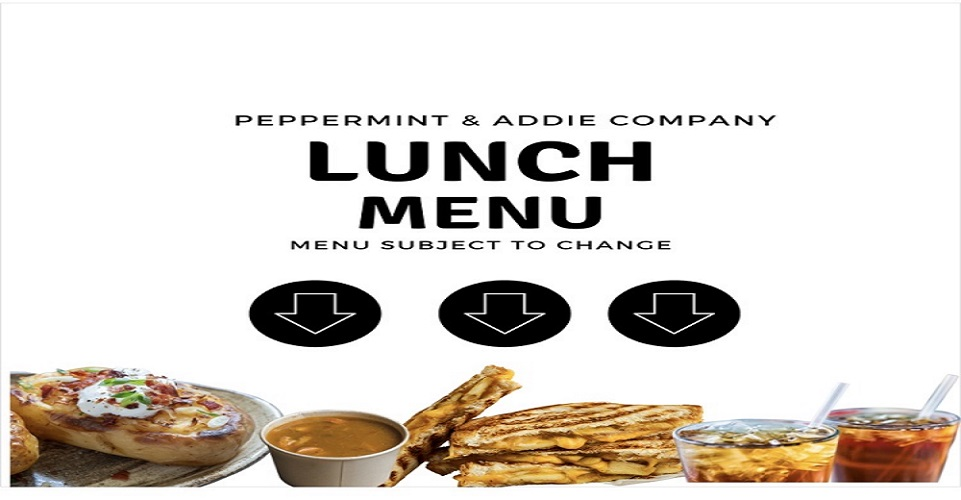
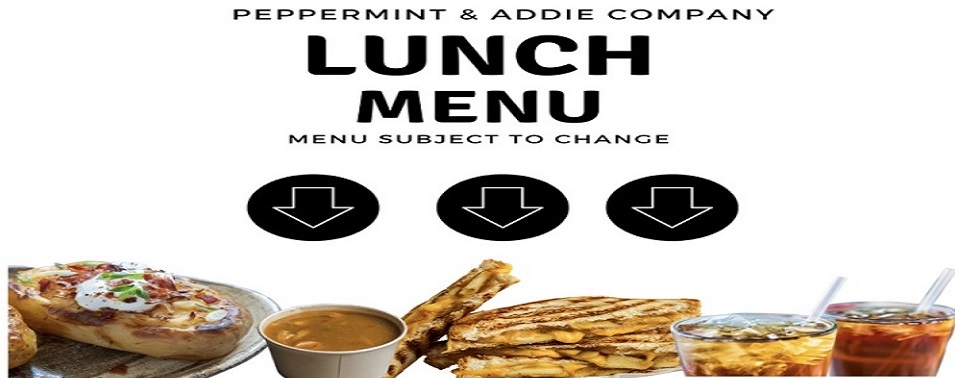
yep

Changed region(s): [[0.0, 0.2328, 1.0, 1.0], [0.3037, 0.0873, 0.6984, 0.2037], [0.2429, 0.0, 0.8199, 0.0582]]

diff --git a/meals.html b/meals.html
@@ -13,172 +13,187 @@
 <link rel="stylesheet" href="style.css">
     <title>PeppermintAddie&Co</title>
   </head>
-  <nav class="navbar navbar-light bg-light">
-    <div class="container-fluid">
-    </div>
-  </nav>
-  <nav class="navbar navbar-expand-lg navbar-light bg-light">
-    <div class="container-fluid">
-        <a class="navbar-brand" href="#">
-            <img src="pictures/logo.png" alt="" width="60" height="65" class="d-inline-block align-text-top">
-          </a>      <button class="navbar-toggler" type="button" data-bs-toggle="collapse" data-bs-target="#navbarNavDropdown" aria-controls="navbarNavDropdown" aria-expanded="false" aria-label="Toggle navigation">
-        <span class="navbar-toggler-icon"></span>
-      </button>
-      <div class="collapse navbar-collapse" id="navbarNavDropdown">
-        <ul class="navbar-nav">
-          <li class="nav-item">
-            <a class="nav-link" aria-current="page" href="index.html">Home</a>
-          </li>
-          <li class="nav-item">
-            <a class="nav-link" href="icecream.html">Ice Cream</a>
-          </li>
-          <li class="nav-item">
-            <a class="nav-link active" href="meals.html">Meals</a>
-          </li>
-          <li class="nav-item">
-            <a class="nav-link" href="about.html">About Us</a>
-          </li>
-          <li class="nav-item">
-            <a class="nav-link" href="contact.html">Contacts Us</a>
-          </li>
-        </ul>
-      </div>
-    </div>
-  </nav>
   <body>
-    <div id="carouselExampleControls" class="carousel slide" data-bs-ride="carousel">
-      <div class="carousel-inner">
-        <div class="carousel-item active">
-          <img src="pictures/meals.png" class="d-block w-100" alt="...">
-        </div>
-        <div class="carousel-item">
-          <img src="pictures/icecream menu.png" class="d-block w-100" alt="...">
-        </div>
-        <div class="carousel-item">
-          <img src="pictures/lunch menu.png" class="d-block w-100" alt="...">
+    <nav class="navbar navbar-light bg-light">
+      <div class="container-fluid">
+      </div>
+    </nav>
+    <nav class="navbar navbar-expand-lg navbar-light bg-light">
+      <div class="container-fluid">
+          <a class="navbar-brand" href="#">
+              <img src="pictures/logo.png" alt="" width="60" height="65" class="d-inline-block align-text-top">
+            </a>      <button class="navbar-toggler" type="button" data-bs-toggle="collapse" data-bs-target="#navbarNavDropdown" aria-controls="navbarNavDropdown" aria-expanded="false" aria-label="Toggle navigation">
+          <span class="navbar-toggler-icon"></span>
+        </button>
+        <div class="collapse navbar-collapse" id="navbarNavDropdown">
+          <ul class="navbar-nav">
+            <li class="nav-item">
+              <a class="nav-link" aria-current="page" href="index.html">Home</a>
+            </li>
+            <li class="nav-item">
+              <a class="nav-link" href="icecream.html">Ice Cream</a>
+            </li>
+            <li class="nav-item">
+              <a class="nav-link active" href="meals.html">Meals</a>
+            </li>
+            <li class="nav-item">
+              <a class="nav-link" href="about.html">About Us</a>
+            </li>
+            <li class="nav-item">
+              <a class="nav-link" href="contact.html">Contacts Us</a>
+            </li>
+          </ul>
         </div>
       </div>
-      <button class="carousel-control-prev" type="button" data-bs-target="#carouselExampleControls" data-bs-slide="prev">
-        <span class="carousel-control-prev-icon" aria-hidden="true"></span>
-        <span class="visually-hidden">Previous</span>
-      </button>
-      <button class="carousel-control-next" type="button" data-bs-target="#carouselExampleControls" data-bs-slide="next">
-        <span class="carousel-control-next-icon" aria-hidden="true"></span>
-        <span class="visually-hidden">Next</span>
-      </button>
-    </div>
-    <h2>Our Meals</h2>
-    <div class="container yes">
-      <div class="row">
-        <div class="col-md-6 food">
-          <h3>Breakfast</h3>
-          <h4>
-          <ul class="breakfast">
-            <li>Bacon, egg, & cheese... 4.00</li>
-            <li class="yes">Sausage, egg, & cheese... 4.00</li>
-            <li class="yes">Cereal Bowl... 2.00</li>
-            <li class="yes">Mini Doughnuts(6)... 3.00</li>
-            <li class="yes">Black Coffee... 2.00</li>
-          </ul>
-          </h4>
-          <h3 class="ok">Floats</h3>
-          <h4>
-          <ul class="breakfast">
-            <li>Root Beer Float</li>
-            <li></li>
-            <li></li>
-          </ul>
-          </h4>
+    </nav>
+      <div id="carouselExampleControls" class="carousel slide" data-bs-ride="carousel">
+        <div class="carousel-inner">
+          <div class="carousel-item active">
+            <img src="pictures/meals.png" class="d-block w-100" alt="...">
+          </div>
+          <div class="carousel-item">
+            <img src="pictures/icecream menu.png" class="d-block w-100" alt="...">
+          </div>
+          <div class="carousel-item">
+            <img src="pictures/lunch menu.png" class="d-block w-100" alt="...">
+          </div>
         </div>
-        <div class="col-md-6 food">
-          <h3>Lunch</h3>
-          <h4>
-            <ul class="lunch">
-              Classic Grilled Cheese... 3.00 
+        <button class="carousel-control-prev" type="button" data-bs-target="#carouselExampleControls" data-bs-slide="prev">
+          <span class="carousel-control-prev-icon" aria-hidden="true"></span>
+          <span class="visually-hidden">Previous</span>
+        </button>
+        <button class="carousel-control-next" type="button" data-bs-target="#carouselExampleControls" data-bs-slide="next">
+          <span class="carousel-control-next-icon" aria-hidden="true"></span>
+          <span class="visually-hidden">Next</span>
+        </button>
+      </div>
+      <h2>Our Meals</h2>
+      <div class="container yes">
+        <div class="row">
+          <div class="col-md-6 food">
+            <h3>Breakfast</h3>
+            <h4>
+            <ul class="breakfast">
+              <li>Bacon, egg, & cheese... 4.00</li>
+              <li class="yes">Sausage, egg, & cheese... 4.00</li>
+              <li class="yes">Cereal Bowl... 2.00</li>
+              <li class="yes">Mini Doughnuts(6)... 3.00</li>
+              <li class="yes">Black Coffee... 2.00</li>
             </ul>
-            <ul class="lunch yes">
-              KICK'D UP GRILLED CHEESE... 6.49
-              <h5>Includes grilled chicken and special sauces </h5>
+            </h4>
+            <h3 class="ok">Floats</h3>
+            <h4>
+            <ul class="breakfast">
+              <li>Root Beer Float</li>
+              <li> Coke Float... 3.69</li>
+              <li> Orange Dream Float... 3.69</li>
+              <li>Vanilla Coke... 3.69</li>
             </ul>
-            <ul class="lunch yes">
-              LOADED POTATOES... 6.49
-              <h5>Classic</h5>
-              <h5>Pull Pork</h5>
-              <h5>Grilled Chicken Ranch</h5>
-            </ul>
-            <ul class="lunch yes">
-              SOUPS(VARY PER DAY)... 4.00
-              <h5>Potato Soup (Served Daily)</h5>
-              <h5>White Chicken Chili</h5>
-              <h5>Clam Chowder</h5>
-              <h5>Chicken Tortilla </h5>
-              <h5>Butternut Squash/Apple</h5>
-            </ul>
-          </h4>
+            </h4>
+            <h3 class="ok">Shakes</h3>
+            <h4>
+              <ul class="breakfast">
+                <li>Vanilla... 4.39</li>
+                <li>Chocolate... 4.39</li>
+                <li>Strawberry...4.39</li>
+                <h5>add any toppings for... .60</h5>
+              </ul>
+            </h4>
+          </div>
+          <div class="col-md-6 food">
+            <h3>Lunch</h3>
+            <h4>
+              <ul class="lunch">
+                Classic Grilled Cheese... 3.00 
+              </ul>
+              <ul class="lunch yes">
+                KICK'D UP GRILLED CHEESE... 6.49
+                <h5>Includes grilled chicken and special sauces </h5>
+              </ul>
+              <ul class="lunch yes">
+                LOADED POTATOES... 6.49
+                <h5>Classic</h5>
+                <h5>Pull Pork</h5>
+                <h5>Grilled Chicken Ranch</h5>
+              </ul>
+              <ul class="lunch yes">
+                SOUPS(VARY PER DAY)... 4.00
+                <h5>Potato Soup (Served Daily)</h5>
+                <h5>White Chicken Chili</h5>
+                <h5>Clam Chowder</h5>
+                <h5>Chicken Tortilla </h5>
+                <h5>Butternut Squash/Apple</h5>
+              </ul>
+              <ul class="lunch yes">
+                <h5>We offer 12 flavors of ice cream including 2 non-diary options. Flavors may vary.</h5>
+                <li>1 Scoop... 3.79</li>
+                <li>2 Scoops...4.49</li>
+              </ul>
+            </h4>
+          </div>
         </div>
       </div>
-    </div>
-
-    <footer class="text-center text-lg-start bg-light text-muted">
-
- 
-
-      <section class="">
-        <div class="container text-center text-md-start mt-5">
-        
-          <div class="row mt-3">
-     
-            <div class="col-md-3 col-lg-4 col-xl-3 mx-auto mb-4">
-     
-              <h6 class="text-uppercase fw-bold mb-4">
-                <i class="fas fa-gem me-3"></i>Peppermint Addie
-              </h6>
-              <p>
-                Peppermint & Co is downtowns newest icecream shop! Come visit us! We have breakfeast and lunch as well!
-                We come with a wide varitey of candy inside!
-              </p>
-            </div>
-           
-            <div class="col-md-2 col-lg-2 col-xl-2 mx-auto mb-4">
+  
+      <footer class="text-center text-lg-start bg-light text-muted">
+  
+   
+  
+        <section class="">
+          <div class="container text-center text-md-start mt-5">
+          
+            <div class="row mt-3">
+       
+              <div class="col-md-3 col-lg-4 col-xl-3 mx-auto mb-4">
+       
+                <h6 class="text-uppercase fw-bold mb-4">
+                  <i class="fas fa-gem me-3"></i>Peppermint Addie
+                </h6>
+                <p>
+                  Peppermint & Co is downtowns newest icecream shop! Come visit us! We have breakfeast and lunch as well!
+                  We come with a wide varitey of candy inside!
+                </p>
+              </div>
              
-              <h6 class="text-uppercase fw-bold mb-4">
-                Items
-              </h6>
-              <p>
-                <a href="#!" class="text-reset">Icecream</a>
-              </p>
-              <p>
-                <a href="#!" class="text-reset">Meals</a>
-              </p>
+              <div class="col-md-2 col-lg-2 col-xl-2 mx-auto mb-4">
+               
+                <h6 class="text-uppercase fw-bold mb-4">
+                  Items
+                </h6>
+                <p>
+                  <a href="#!" class="text-reset">Icecream</a>
+                </p>
+                <p>
+                  <a href="#!" class="text-reset">Meals</a>
+                </p>
+              
+              </div>
+            
+              <div class="col-md-4 col-lg-3 col-xl-3 mx-auto mb-md-0 mb-4">
+                
+                <h6 class="text-uppercase fw-bold mb-4">
+                  Contact
+                </h6>
+                <p><i class="fas fa-home me-3"></i> Jackson,TN</p>
+                <p>
+                  <i class="fas fa-envelope me-3"></i>
+                  Peppermintaddie@yahoo.com
+                </p>
+              </div>
             
             </div>
-          
-            <div class="col-md-4 col-lg-3 col-xl-3 mx-auto mb-md-0 mb-4">
-              
-              <h6 class="text-uppercase fw-bold mb-4">
-                Contact
-              </h6>
-              <p><i class="fas fa-home me-3"></i> Jackson,TN</p>
-              <p>
-                <i class="fas fa-envelope me-3"></i>
-                Peppermintaddie@yahoo.com
-              </p>
-            </div>
-          
+        
           </div>
+        </section>
+        
       
-        </div>
-      </section>
       
-    
-    
-     
-    </footer>
-    
-    
-    <!-- Bootstrap Bundle with Popper -->
-    <script src="https://cdn.jsdelivr.net/npm/bootstrap@5.1.3/dist/js/bootstrap.bundle.min.js" integrity="sha384-ka7Sk0Gln4gmtz2MlQnikT1wXgYsOg+OMhuP+IlRH9sENBO0LRn5q+8nbTov4+1p" crossorigin="anonymous"></script>
-
-    
+       
+      </footer>
+      
+      
+      <!-- Bootstrap Bundle with Popper -->
+      <script src="https://cdn.jsdelivr.net/npm/bootstrap@5.1.3/dist/js/bootstrap.bundle.min.js" integrity="sha384-ka7Sk0Gln4gmtz2MlQnikT1wXgYsOg+OMhuP+IlRH9sENBO0LRn5q+8nbTov4+1p" crossorigin="anonymous"></script>
+  
   </body>
+  
 </html>

diff --git a/index.html b/index.html
@@ -85,7 +85,7 @@
             <img src="pictures/peppermint-icecream.png" class="card-img-top" style="height: 28rem;" alt="peppermint-icecream">
             <div class="card-body">
               <h5 class="card-title">Our Ice Cream</h5>
-              <p class="card-text">al;dkfjalksdhf</p>
+              <p class="card-text"></p>
               <a href="icecream.html" class="btn btn-primary">More</a>
             </div>
           </div>
@@ -95,7 +95,7 @@
             <img src="pictures/MicrosoftTeams-image (1).png" class="card-img-top" style="height: 28rem;" alt="more Meals">
             <div class="card-body">
               <h5 class="card-title">Meals</h5>
-              <p class="card-text"> We have good meals </p>
+              <p class="card-text"></p>
               <a href="meals.html" class="btn btn-primary">More</a>
             </div>
           </div>
@@ -105,7 +105,7 @@
             <img src="pictures/MicrosoftTeams-image (3).png" class="card-img-top" style="height: 28rem;" alt="Our company">
             <div class="card-body">
               <h5 class="card-title">More About Us</h5>
-              <p class="card-text">akdhfkdahf </p>
+              <p class="card-text"> </p>
               <a href="about.html" class="btn btn-primary">More</a>
             </div>
           </div>

diff --git a/about.html b/about.html
@@ -53,7 +53,11 @@
       <img src="pictures/MicrosoftTeams-image (3).png" class="peppermint" alt=""> 
 		</div>
 		<div class="col-md-6 rara">
-      <p>This is Addie, she </p>
+      <p> This is Addie, founder of Peppermint Addie And Co, located Jackson, TN. Addie, with the support of her family, runs jacksons local icecream parlor. 
+Our goal for the future is to bring the community of jackson together. We want to bring all ages alike using the power of icecream. Ice cream is an aswesome treat that new and old members will enjoy!
+
+
+      </p> 
 		</div>
 	</div>
 </div>

diff --git a/style.css b/style.css
@@ -8,7 +8,7 @@ color: rgb(4, 202, 209)
 
 
 .carousel-inner{
-    height: 900px;
+    height: 700px;
 }
 
 .carousel-item{
